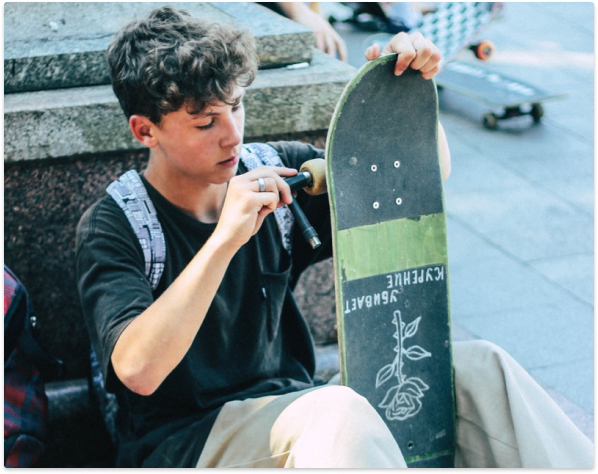
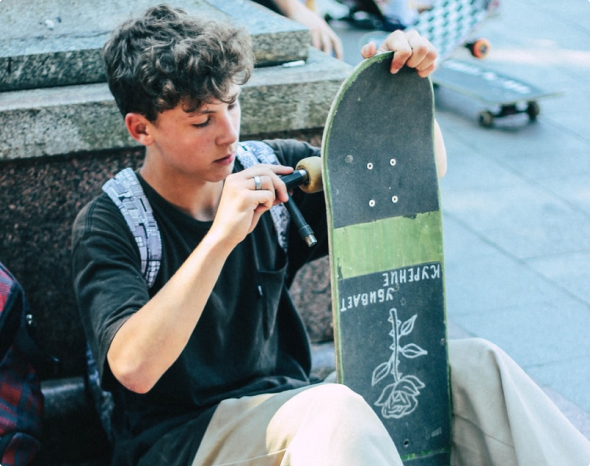
fix images in navsection

diff --git a/src/components/NavSection.vue b/src/components/NavSection.vue
@@ -40,7 +40,7 @@
     justify-content: center;
   }
   a:nth-of-type(1) {
-    background-image: url("../assets/images/skateboards.png");
+    background-image: url("../assets/images/skateboards.jpg");
   }
   a:nth-of-type(2) {
     background-image: url("../assets/images/apparel.jpg");
